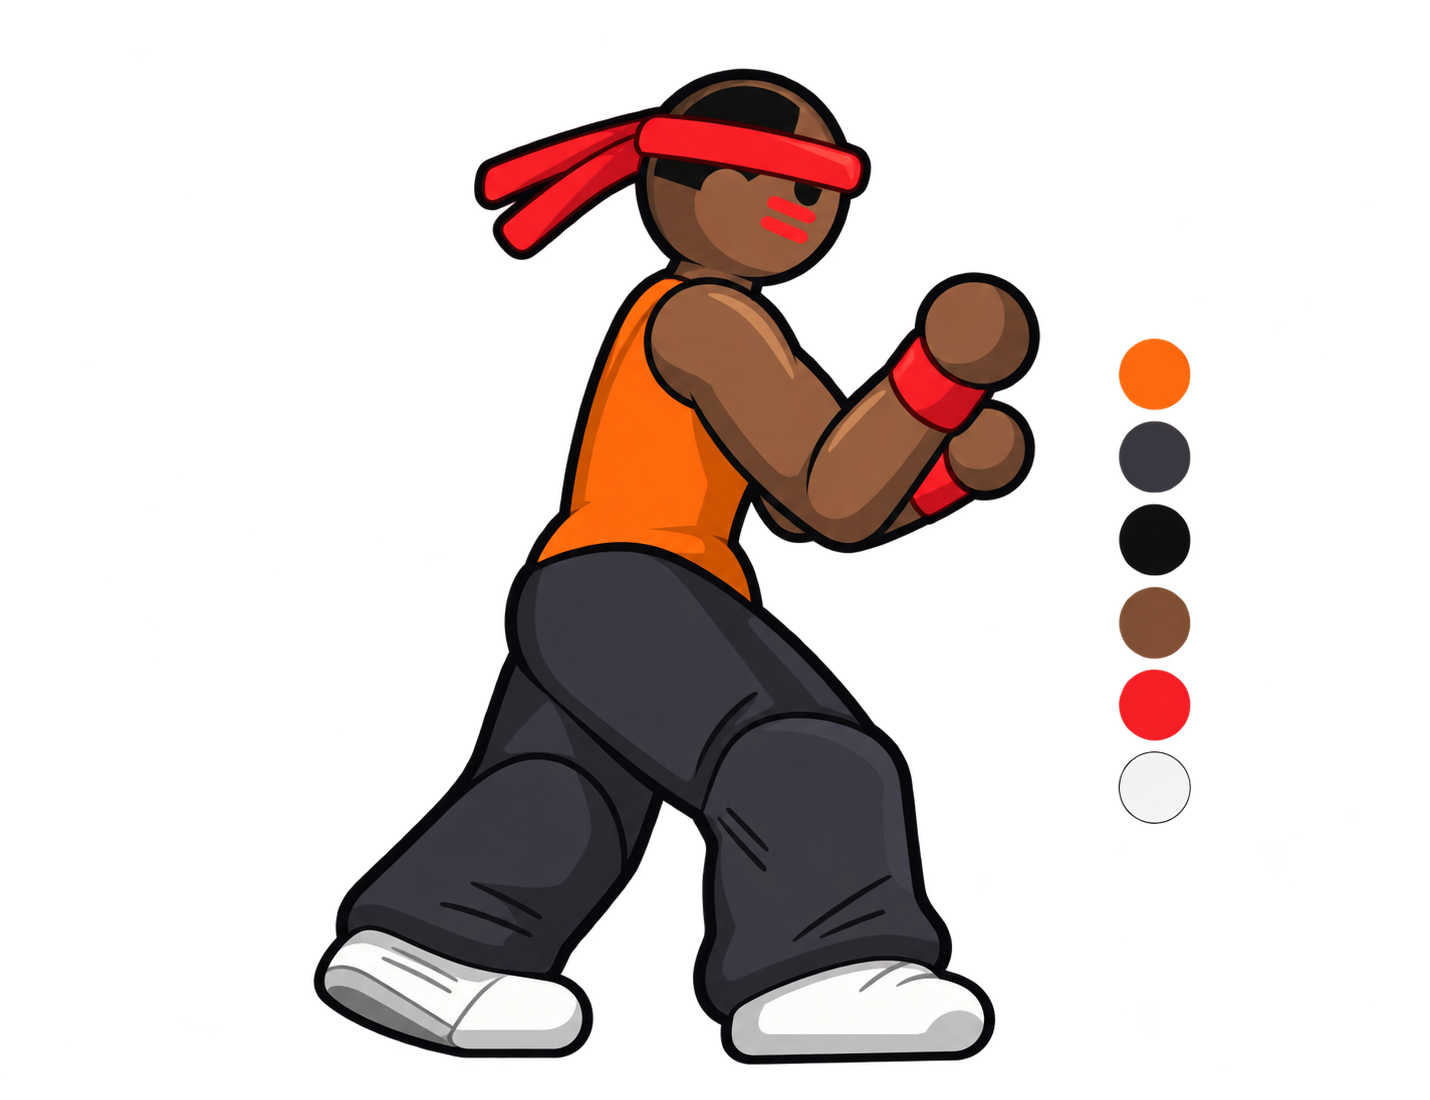
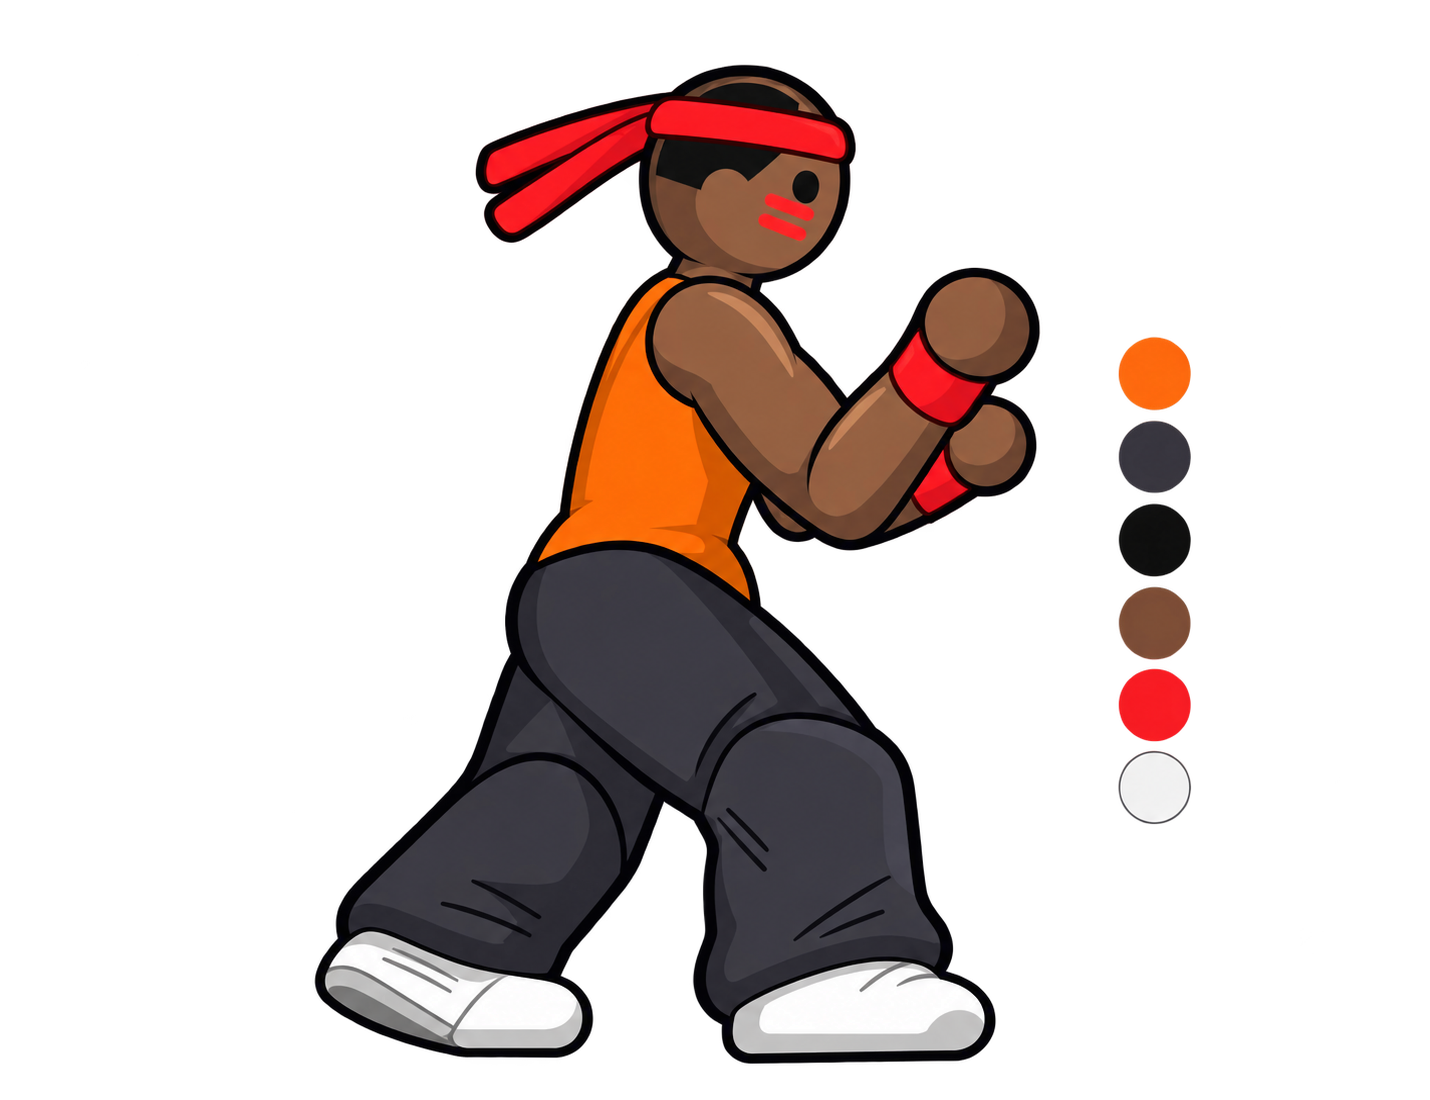
art: T1 크럼프 시범 수정

diff --git a/docs/design/TASKS.md b/docs/design/TASKS.md
@@ -42,13 +42,13 @@
 
 크럼프 한 명을 끝까지 완성해서, 걷고 앉고 맞고 기술을 써도 그림이 섞이지 않게 만드는 것이 목표입니다. 총 183장.
 
-### ☐ T1. 시범 수정 🛑
+### ☑ T1. 시범 수정 🛑
 
 [REVIEW_krump_pilot.md](REVIEW_krump_pilot.md)의 "다음 작업" 1~2번입니다.
 
-- [ ] `docs/design/krump_sheet.png`: 머리띠를 **이마(눈썹 위)** 로
-- [ ] `sHP` 6장 다시 만들기: `sHP_0 sHP_4 sHP_7 sHP_11 sHP_15 sHP_24`. 참고 그림의 실루엣 폭 안에 (앞쪽 끝 ⚠ 없게)
-- [ ] `idle` 8장 다시 만들기 (추천: 새 설정 그림의 머리띠 위치에 맞춤): `idle_0 idle_4 idle_8 idle_12 idle_16 idle_20 idle_24 idle_28`
+- [x] `docs/design/krump_sheet.png`: 머리띠를 **이마(눈썹 위)** 로
+- [x] `sHP` 6장 다시 만들기: `sHP_0 sHP_4 sHP_7 sHP_11 sHP_15 sHP_24`. 참고 그림의 실루엣 폭 안에 (앞쪽 끝 ⚠ 없게)
+- [x] `idle` 8장 다시 만들기 (추천: 새 설정 그림의 머리띠 위치에 맞춤): `idle_0 idle_4 idle_8 idle_12 idle_16 idle_20 idle_24 idle_28`
 
 **확인 방법**: 트레이닝 → 크럼프 선택 → 가만히 서서 대기 모습 보기 → **G** 눌러 강P. **F1**을 켜서 강P가 맞는 순간(빨간 판정 박스)과 주먹 위치가 맞는지 봅니다.
 

diff --git a/docs/design/LOG.md b/docs/design/LOG.md
@@ -8,3 +8,11 @@
 - 설정 그림 1장, 스프라이트 14장 (`idle` 8, `sHP` 6), manifest
 - `check_sprites`: ❌ 없음. 이후 검사 기준이 강화되어 `sHP` 5장에 앞쪽 끝 ⚠
 - 검토 결과: [REVIEW_krump_pilot.md](REVIEW_krump_pilot.md). 스타일 채택, `sHP` 다시 만들기, 머리띠 위치 수정 → T1
+
+## 2026-09-30 · T1 시범 수정
+
+- 설정 그림 1장과 스프라이트 14장 수정 (`idle` 8, `sHP` 6), manifest 변경 없음
+- `check_sprites`: ❌·⚠ 없음. `npm run check`: 통과 (55 tests)
+- 다시 만든 프레임: 14장 모두. 설정 그림과 `idle`은 머리띠를 눈썹 위 이마로 올렸고, `sHP`는 머리띠 수정과 함께 보폭·팔 뻗기를 참고 실루엣 안으로 좁힘
+- 실제 게임 확인: 트레이닝에서 크럼프 대기와 강P(G)를 확인했고, F1 빨간 공격 판정 박스가 `sHP_11` 주먹과 겹침
+- 남은 문제: 없음. `src/` 변경 없음. **검토 요청**
